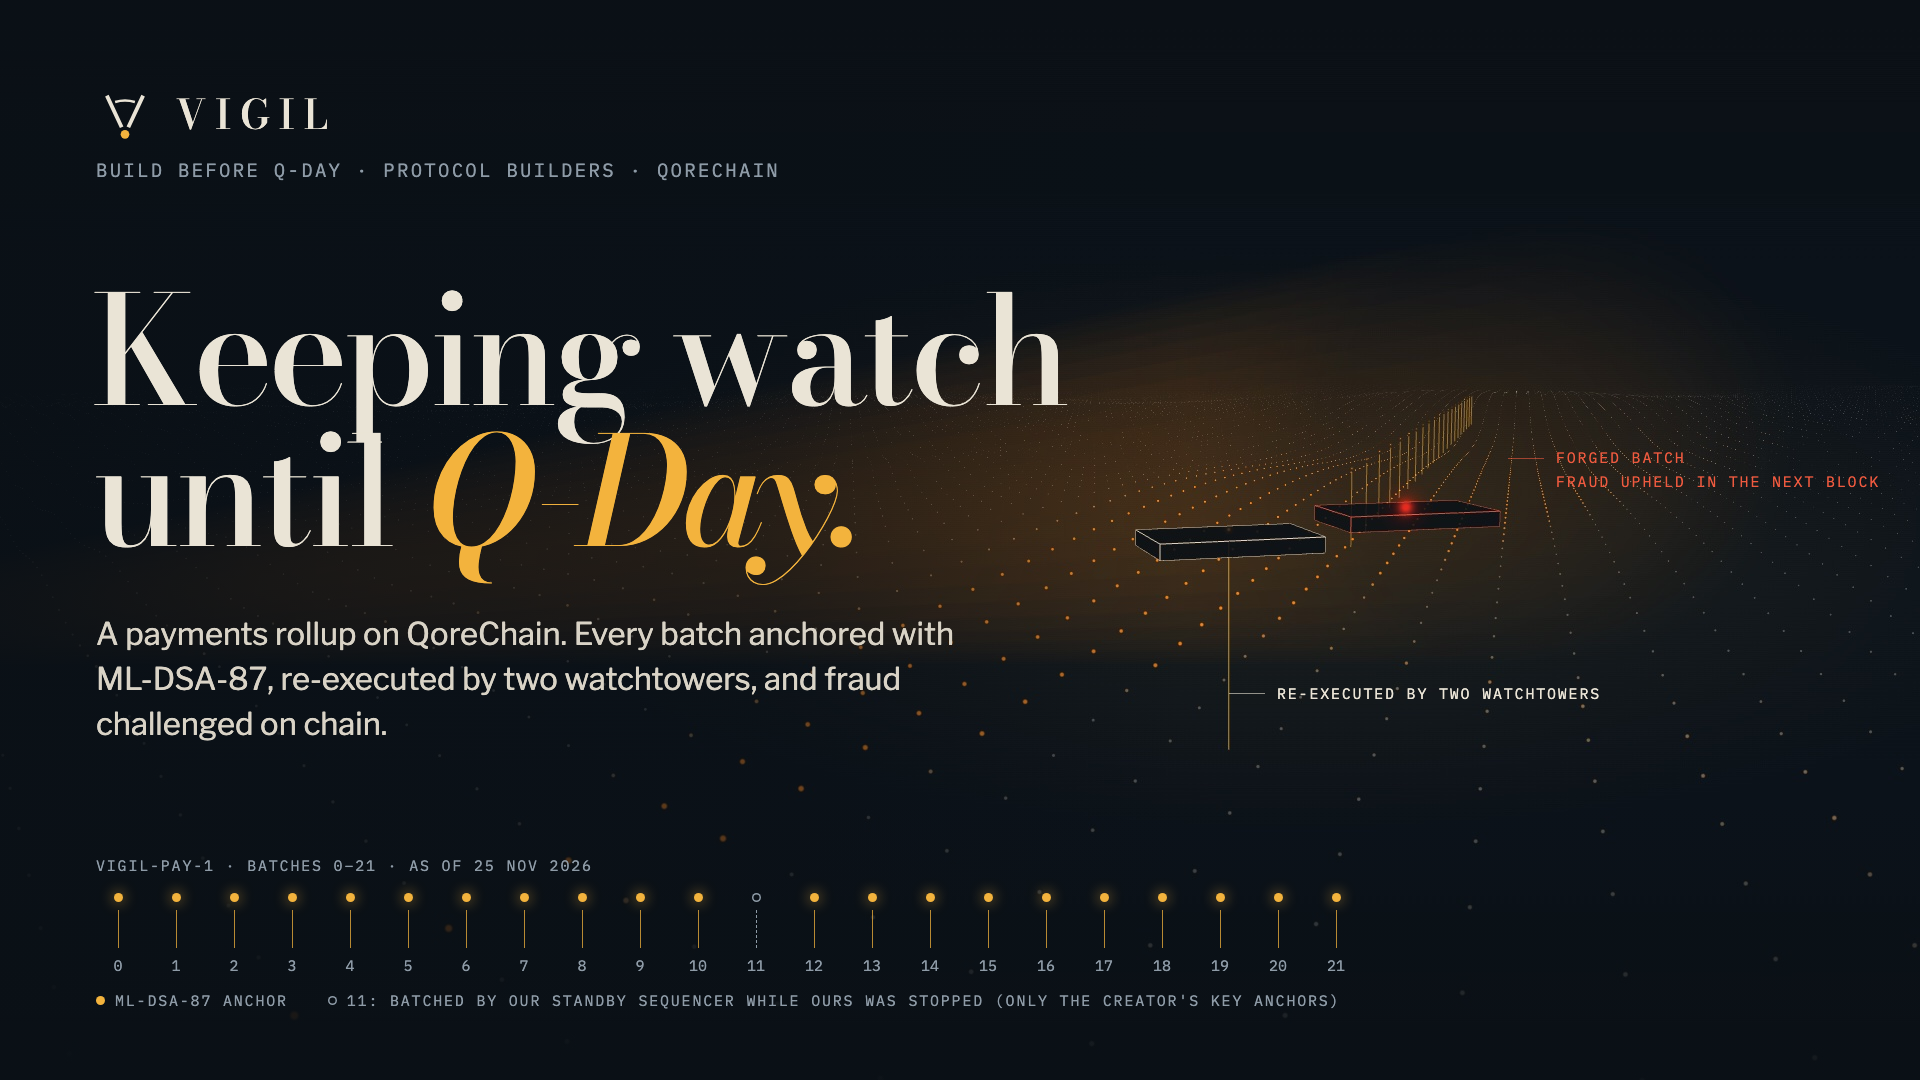
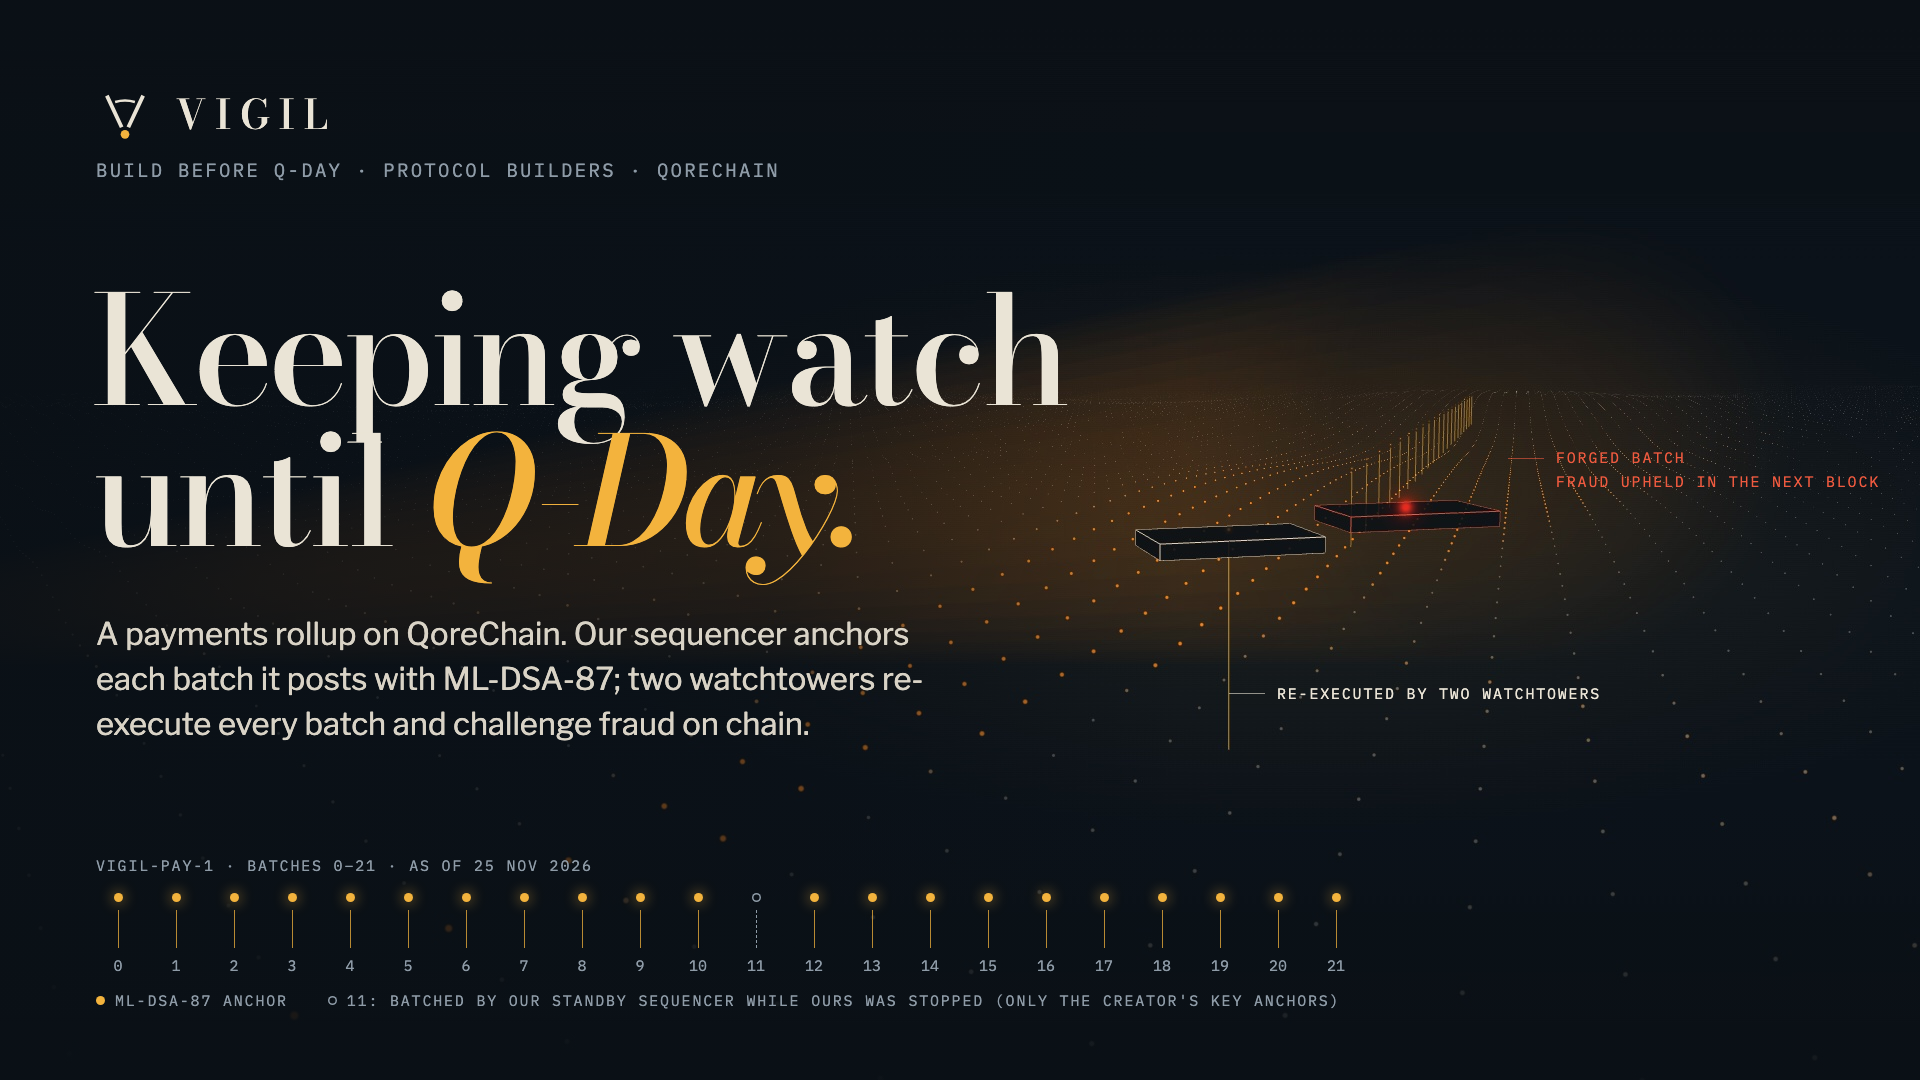
Landing and cover: only our sequencer anchors batches (batch 11, the standby's, is not); the vault can pay before finality

Changed region(s): [[0.0312, 0.5806, 0.5, 0.7028]]

diff --git a/apps/web/src/landing/Landing.tsx b/apps/web/src/landing/Landing.tsx
@@ -41,7 +41,7 @@ const STEPS: Step[] = [
   {
     n: "04",
     title: "Fronted",
-    body: "Leaving early? Both watchtowers sign your withdrawal, the vault checks their ML-DSA-87 signatures with pqcVerify and pays you now. Our first automatic exit was paid 11 blocks after its batch.",
+    body: "Leaving early? Both watchtowers sign your withdrawal, the vault checks their ML-DSA-87 signatures with pqcVerify and can pay you before the batch is final. Our first automatic exit was paid 11 blocks after its batch.",
     sounding: { label: "EVIDENCE 104 · block 10,686,385", href: EVIDENCE },
   },
   {
@@ -246,8 +246,8 @@ export function Landing() {
             </span>
           </h1>
           <p className="hero-lede">
-            Vigil is a payments rollup on QoreChain. Users sign with ML-DSA-44, every batch is anchored with ML-DSA-87, and two watchtowers re-execute
-            each one and challenge fraud on chain.
+            Vigil is a payments rollup on QoreChain. Users sign with ML-DSA-44, our sequencer anchors each batch it posts with ML-DSA-87, and two
+            watchtowers re-execute every batch and challenge fraud on chain.
           </p>
           <div className="cta">
             <a className="btn primary" href="#/rollup">

diff --git a/docs/cover.html b/docs/cover.html
@@ -62,7 +62,7 @@
     <p class="event mono">Build Before Q-Day · Protocol Builders · QoreChain</p>
 
     <h1>Keeping watch<br />until <em>Q-Day.</em></h1>
-    <p class="sub">A payments rollup on QoreChain. Every batch anchored with ML-DSA-87, re-executed by two watchtowers, and fraud challenged on chain.</p>
+    <p class="sub">A payments rollup on QoreChain. Our sequencer anchors each batch it posts with ML-DSA-87; two watchtowers re-execute every batch and challenge fraud on chain.</p>
 
     <p class="note mono fraud"><span>Forged batch<br />fraud upheld in the next block</span></p>
     <p class="note mono valid">Re-executed by two watchtowers</p>
